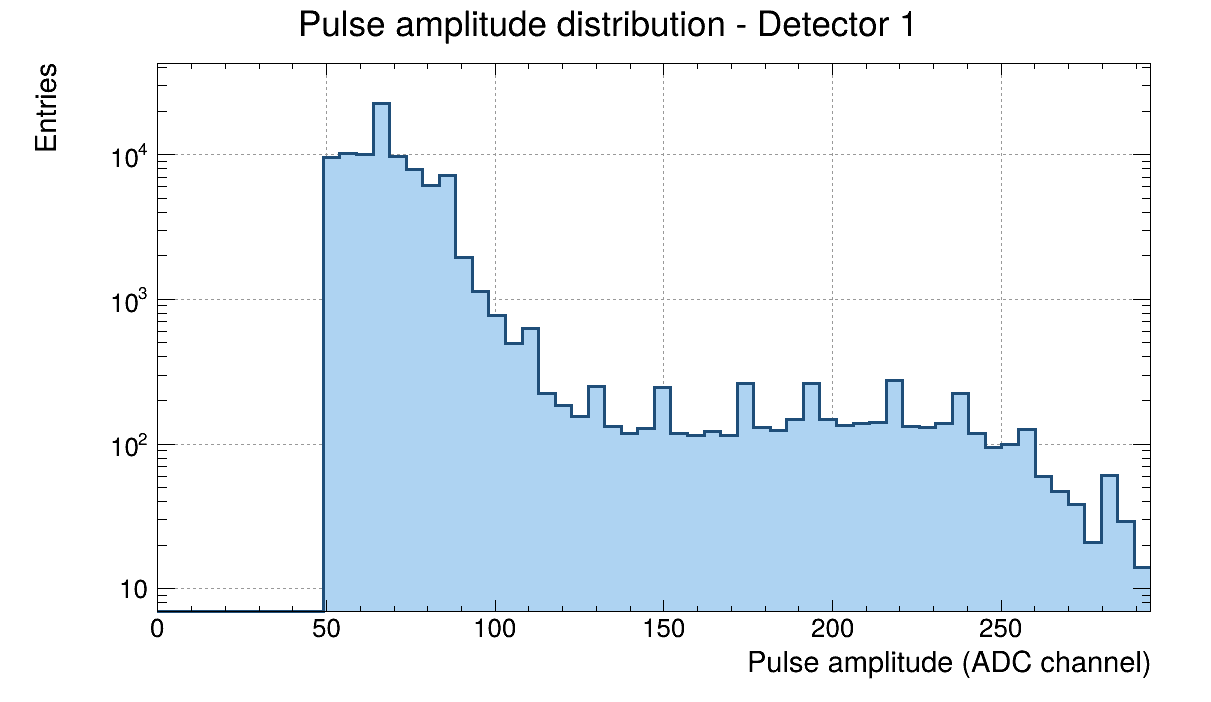
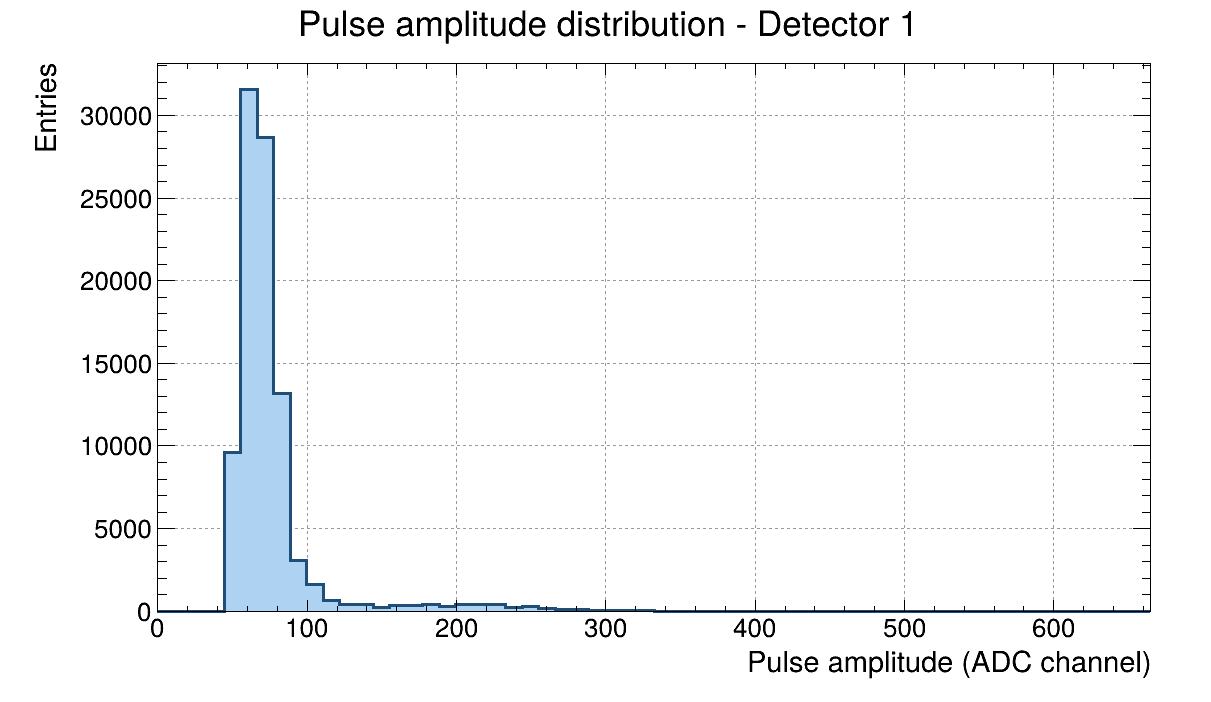
the structure of waves

diff --git a/code/digital_cfd.py b/code/digital_cfd.py
@@ -521,7 +521,7 @@ def plot_amplitudes(
         if values.size == 0:
             continue
         apply_style()
-        limit = float(np.percentile(values, 99.5) * 1.15)
+        limit = float(values.max()) * 1.02
         histogram = ROOT.TH1D(
             f"h_amp_{channel}",
             f"Pulse amplitude distribution - Detector {channel + 1}",
@@ -564,7 +564,6 @@ def plot_amplitudes(
         histogram.GetXaxis().SetLabelSize(0.040)
         histogram.GetYaxis().SetLabelSize(0.040)
         histogram.Draw("hist")
-        canvas.SetLogy()
 
         canvas.SetGridx()
         canvas.SetGridy()
